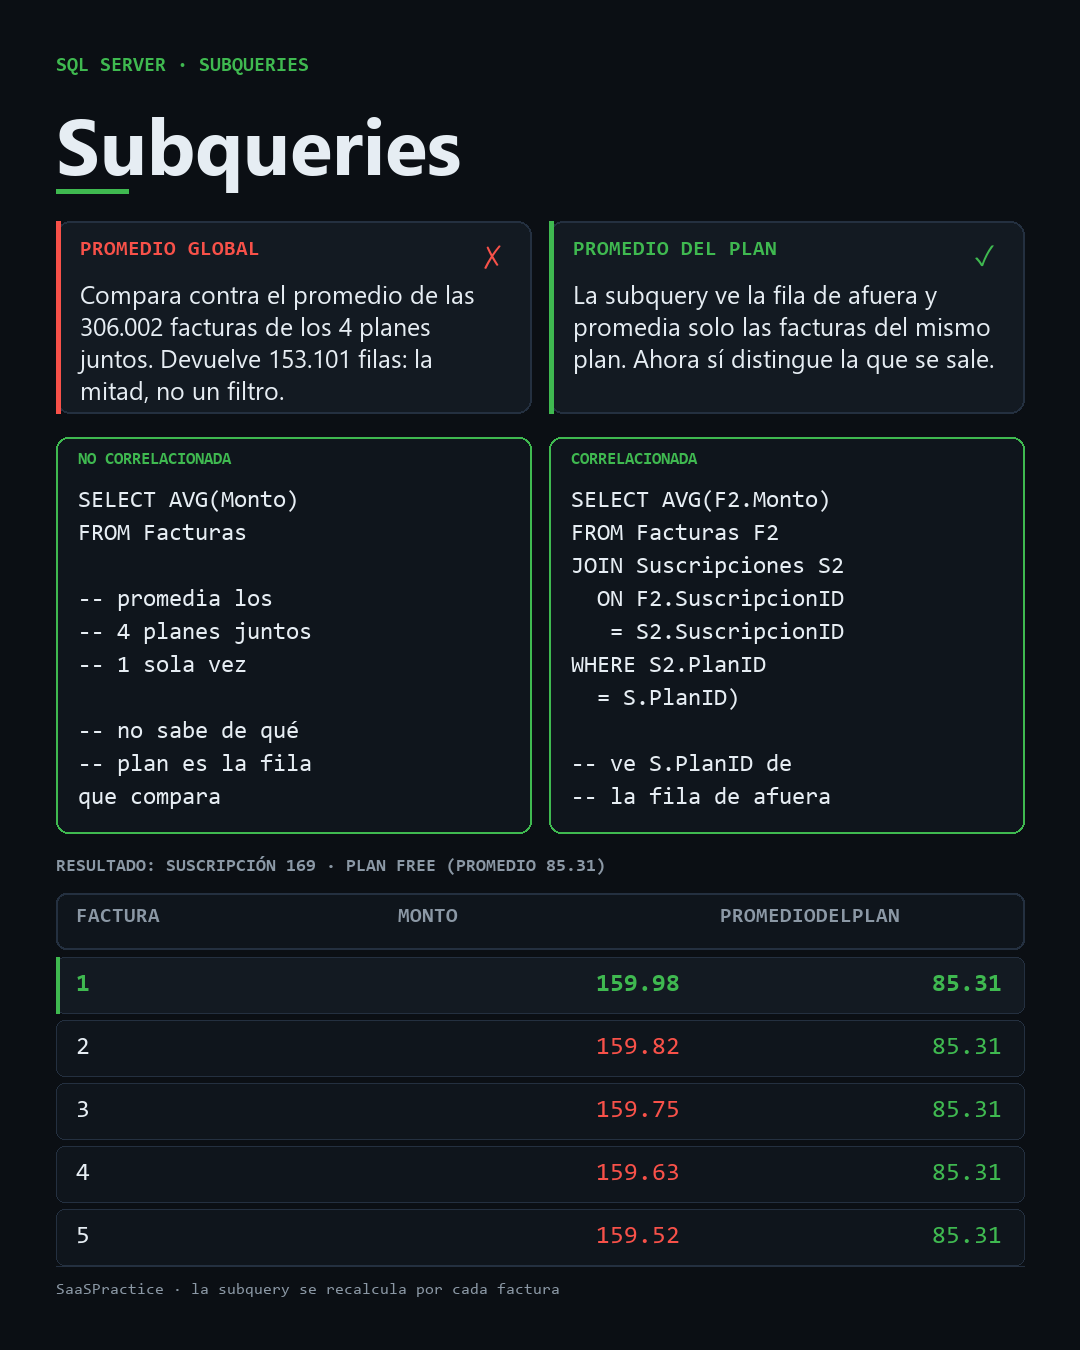
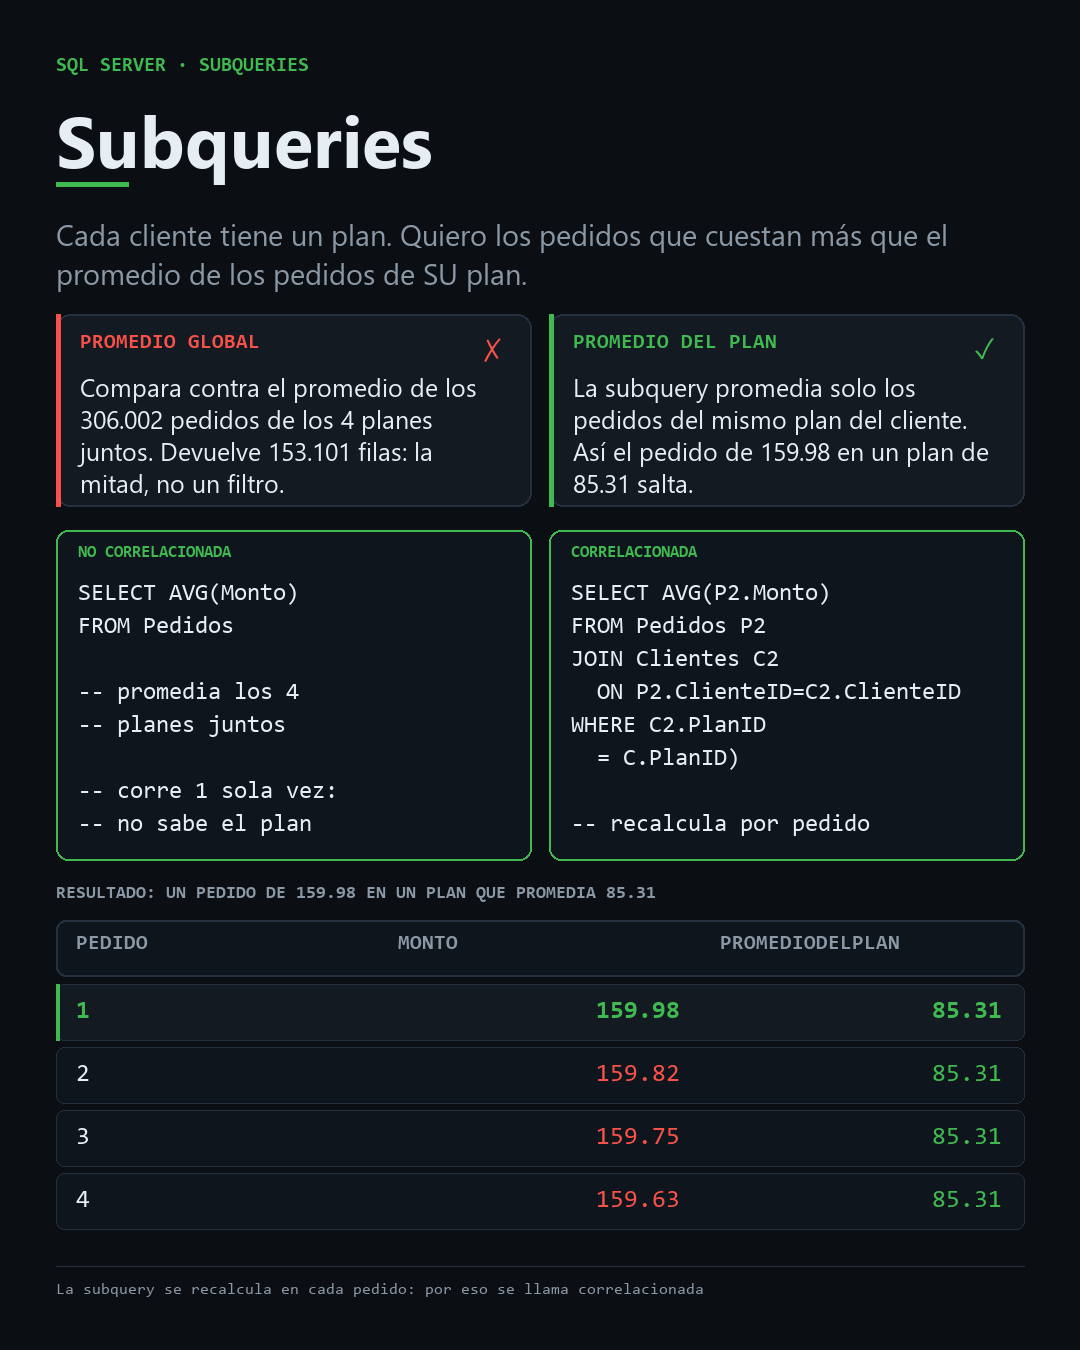
img: add subtitle support so the scenario reads without the source db

diff --git a/scripts/generar-imagen-post.py b/scripts/generar-imagen-post.py
@@ -257,6 +257,12 @@ def build(cfg):
         y += 8
         d.line([(margin, y), (margin + 72, y)], fill=GREEN, width=5)
         y += 30
+        if cfg.get("subtitle"):
+            sub_f = font(SANS, cfg.get("subtitle_size", 30))
+            for line in wrap(d, cfg["subtitle"], sub_f, content_w)[:3]:
+                d.text((margin, y), line, font=sub_f, fill=MUTED)
+                y += int(cfg.get("subtitle_size", 30) * 1.35)
+            y += 22
         y = draw_cards(d, cfg, margin, content_w, y) + 24
         y = draw_fix(d, cfg, margin, content_w, y) + 24
         if cfg.get("example_label"):
